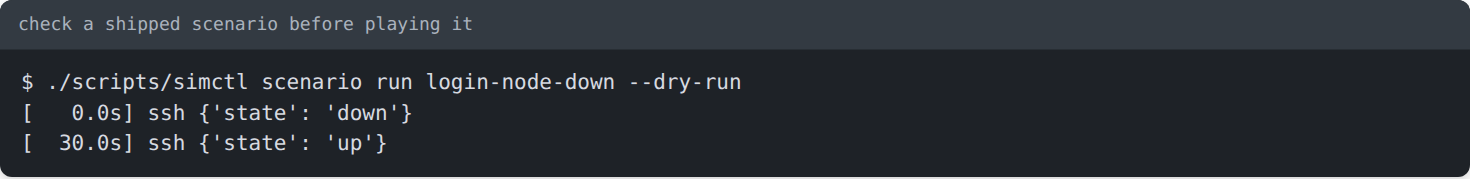
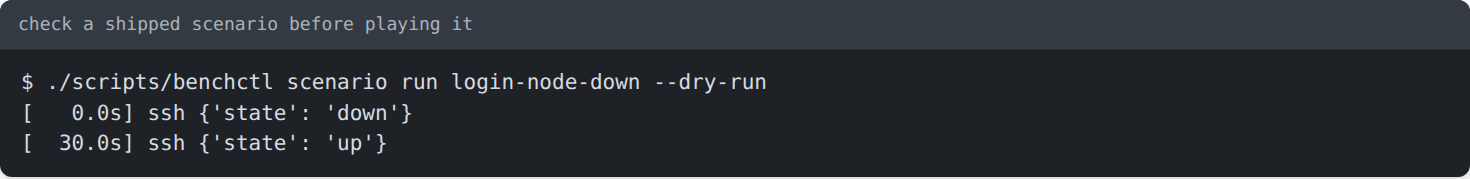
docs: architecture CLI block lists the commands that exist; ssh dry-run screenshot uses benchctl (#164)

Changed region(s): [[0.0918, 0.3911, 0.5204, 0.5307]]

diff --git a/docs/architecture/06-ux-and-scenarios.md b/docs/architecture/06-ux-and-scenarios.md
@@ -6,18 +6,22 @@
 
 ```bash
 benchctl doctor                       # host checks + tuning suggestions
-benchctl up --profile std             # pre-flight, then bring everything up
-benchctl status                       # profile, per-class memory vs budget, governor level
-benchctl top                          # live table: groups, PSI, level, actions taken
-benchctl scale compute 24             # change slurmd count (governor-approved)
-benchctl jira mode mock|cloud|dc
+benchctl start                        # one step: machine check, governor, cluster, web page
+benchctl up --profile std             # or: pre-flight, then bring a preset up
+benchctl up --cpu-nodes 2 --gpu-nodes 4 --with jira   # or build a selection
+benchctl status                       # governor level and signals, cluster, web page
+benchctl get nodes                    # nodes, services, profiles, scenarios
+benchctl scale 24                     # change the compute-node count (governor-approved)
 benchctl scenario list
 benchctl scenario run gpu-xid-storm   # trigger an issue
-benchctl workload run ml-peak --duration 30m
-benchctl down
+benchctl set node cn001 off           # power a node off like the page's button
+benchctl load on                      # simulated users submit jobs
+benchctl stop                         # or: benchctl down (cluster only)
 ```
 
-The **Web UI** (section 7.1) mirrors the CLI. Desktop launcher / `make demo` runs `benchctl up --profile std`.
+Not built yet: `benchctl top` (a live governor table; use `benchctl status`), `jira mode` (cloud/dc) and `workload run`.
+
+The **Web UI** (section 7.1) mirrors the CLI. `benchctl start` is the one-command launcher.
 
 ### 7.1 Web UI
 

diff --git a/docs/architecture/09-roadmap-decisions-risks.md b/docs/architecture/09-roadmap-decisions-risks.md
@@ -8,7 +8,7 @@
 |---|---|---|
 | 0 Baseline | Measure idle + loaded RAM of each current piece (`docker stats`, `smem`, `virsh dommemstat`); fill real numbers into [section 5](04-memory-and-profiles.md) | Budget table replaced with measured values |
 | 1 Governor | Host tuning script, slices, governor with dry-run and the ladder, `benchctl top` | A synthetic memory hog gets throttled, frozen, then stopped in order, and recovers |
-| 2 Slurm | `node-base`, ctld + restd, N slurmd from `sim.yaml`, Prometheus + Grafana | `benchctl scale compute 16` works; app sees the nodes |
+| 2 Slurm | `node-base`, ctld + restd, N slurmd from `sim.yaml`, Prometheus + Grafana | `benchctl scale 16` works; app sees the nodes |
 | 3 Mocks | bmc-farm, bcm-mock, gpu-exporter-farm, jira-mock + Toxiproxy | App's BMC/BCM/Jira integrations pass against mocks |
 | 4 People + chaos | user-sim, ticket-bot, scenario engine, 5 starter scenarios | `gpu-xid-storm` produces tickets end to end |
 | 5 Kubernetes | k3d + KWOK, fake GPU nodes, node-fault scenarios | App shows mixed real/fake K8s nodes |
